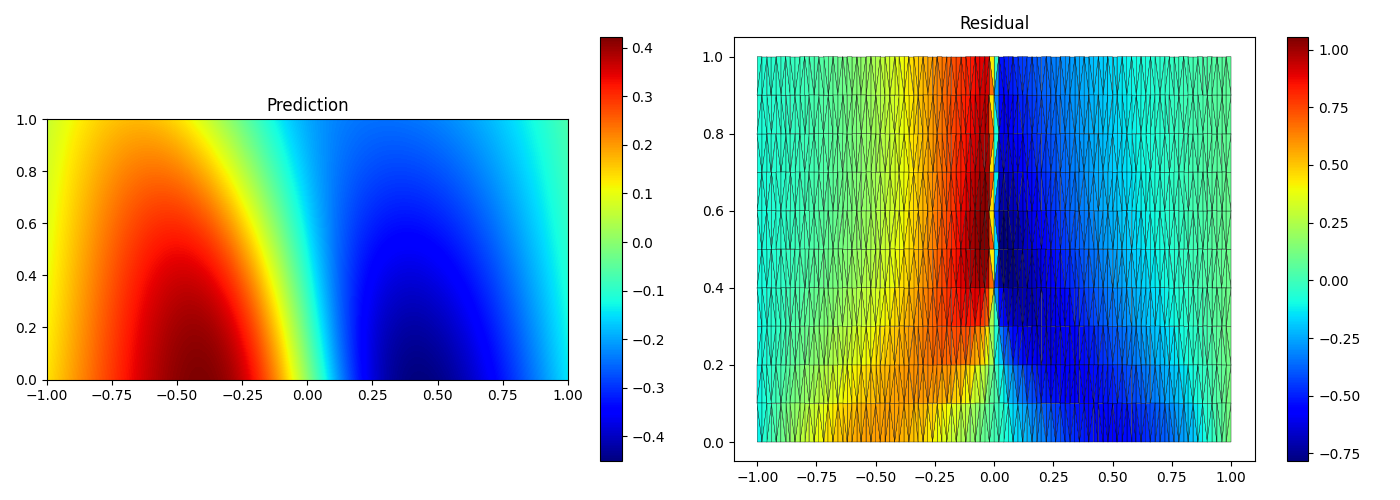
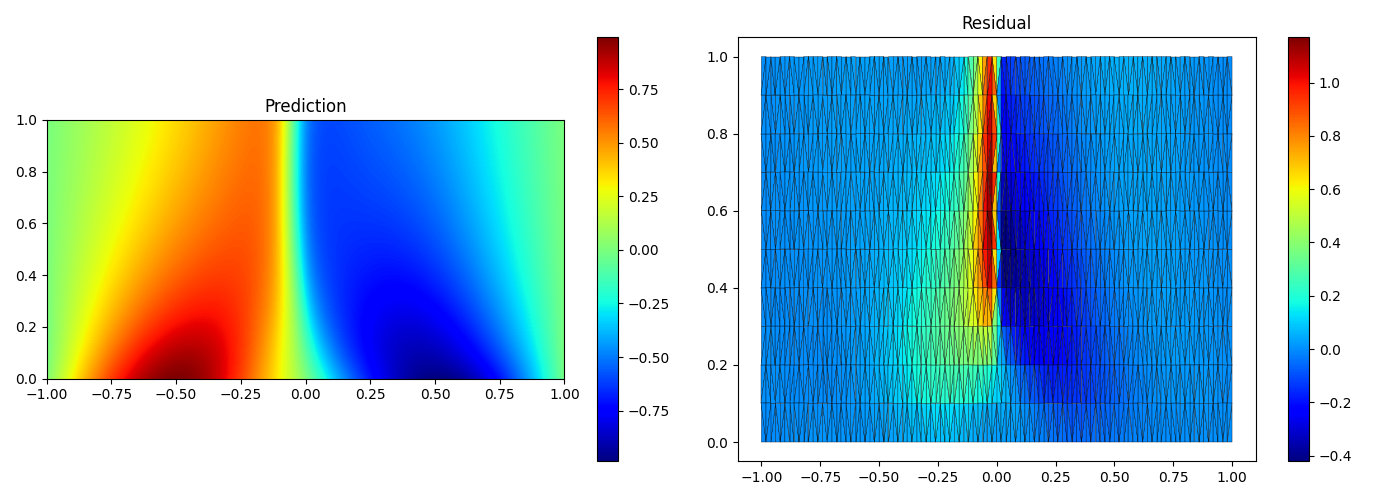
通用脚本run.py

diff --git a/Benchmark/Poisson_Boltzmann2D/test.py b/Benchmark/Poisson_Boltzmann2D/test.py
@@ -92,7 +92,7 @@ def poisson_boltzmann2d():
                 device=device, load=None)
 
 
-    net = vpinn.train("Poisson_Boltzmann", epoch_num=10000, coef=10 ** (3 - np.log2(vpinn.grid_num)))
+    net = vpinn.train("Poisson_Boltzmann", epoch_num=100, coef=10 ** (3 - np.log2(vpinn.grid_num)))
     net.cpu()
     # verify
     data = np.loadtxt('poisson_boltzmann2d.dat', skiprows=9)

diff --git a/Benchmark/Wave/test.py b/Benchmark/Wave/test.py
@@ -66,7 +66,7 @@ def wave():
                 device=device, load='Wave_std.pth')
 
 
-    net = vpinn.train("Wave", epoch_num=10000, coef=1)
+    net = vpinn.train("Wave", epoch_num=100, coef=1)
 
     #############################################################################################
     # plot and verify
